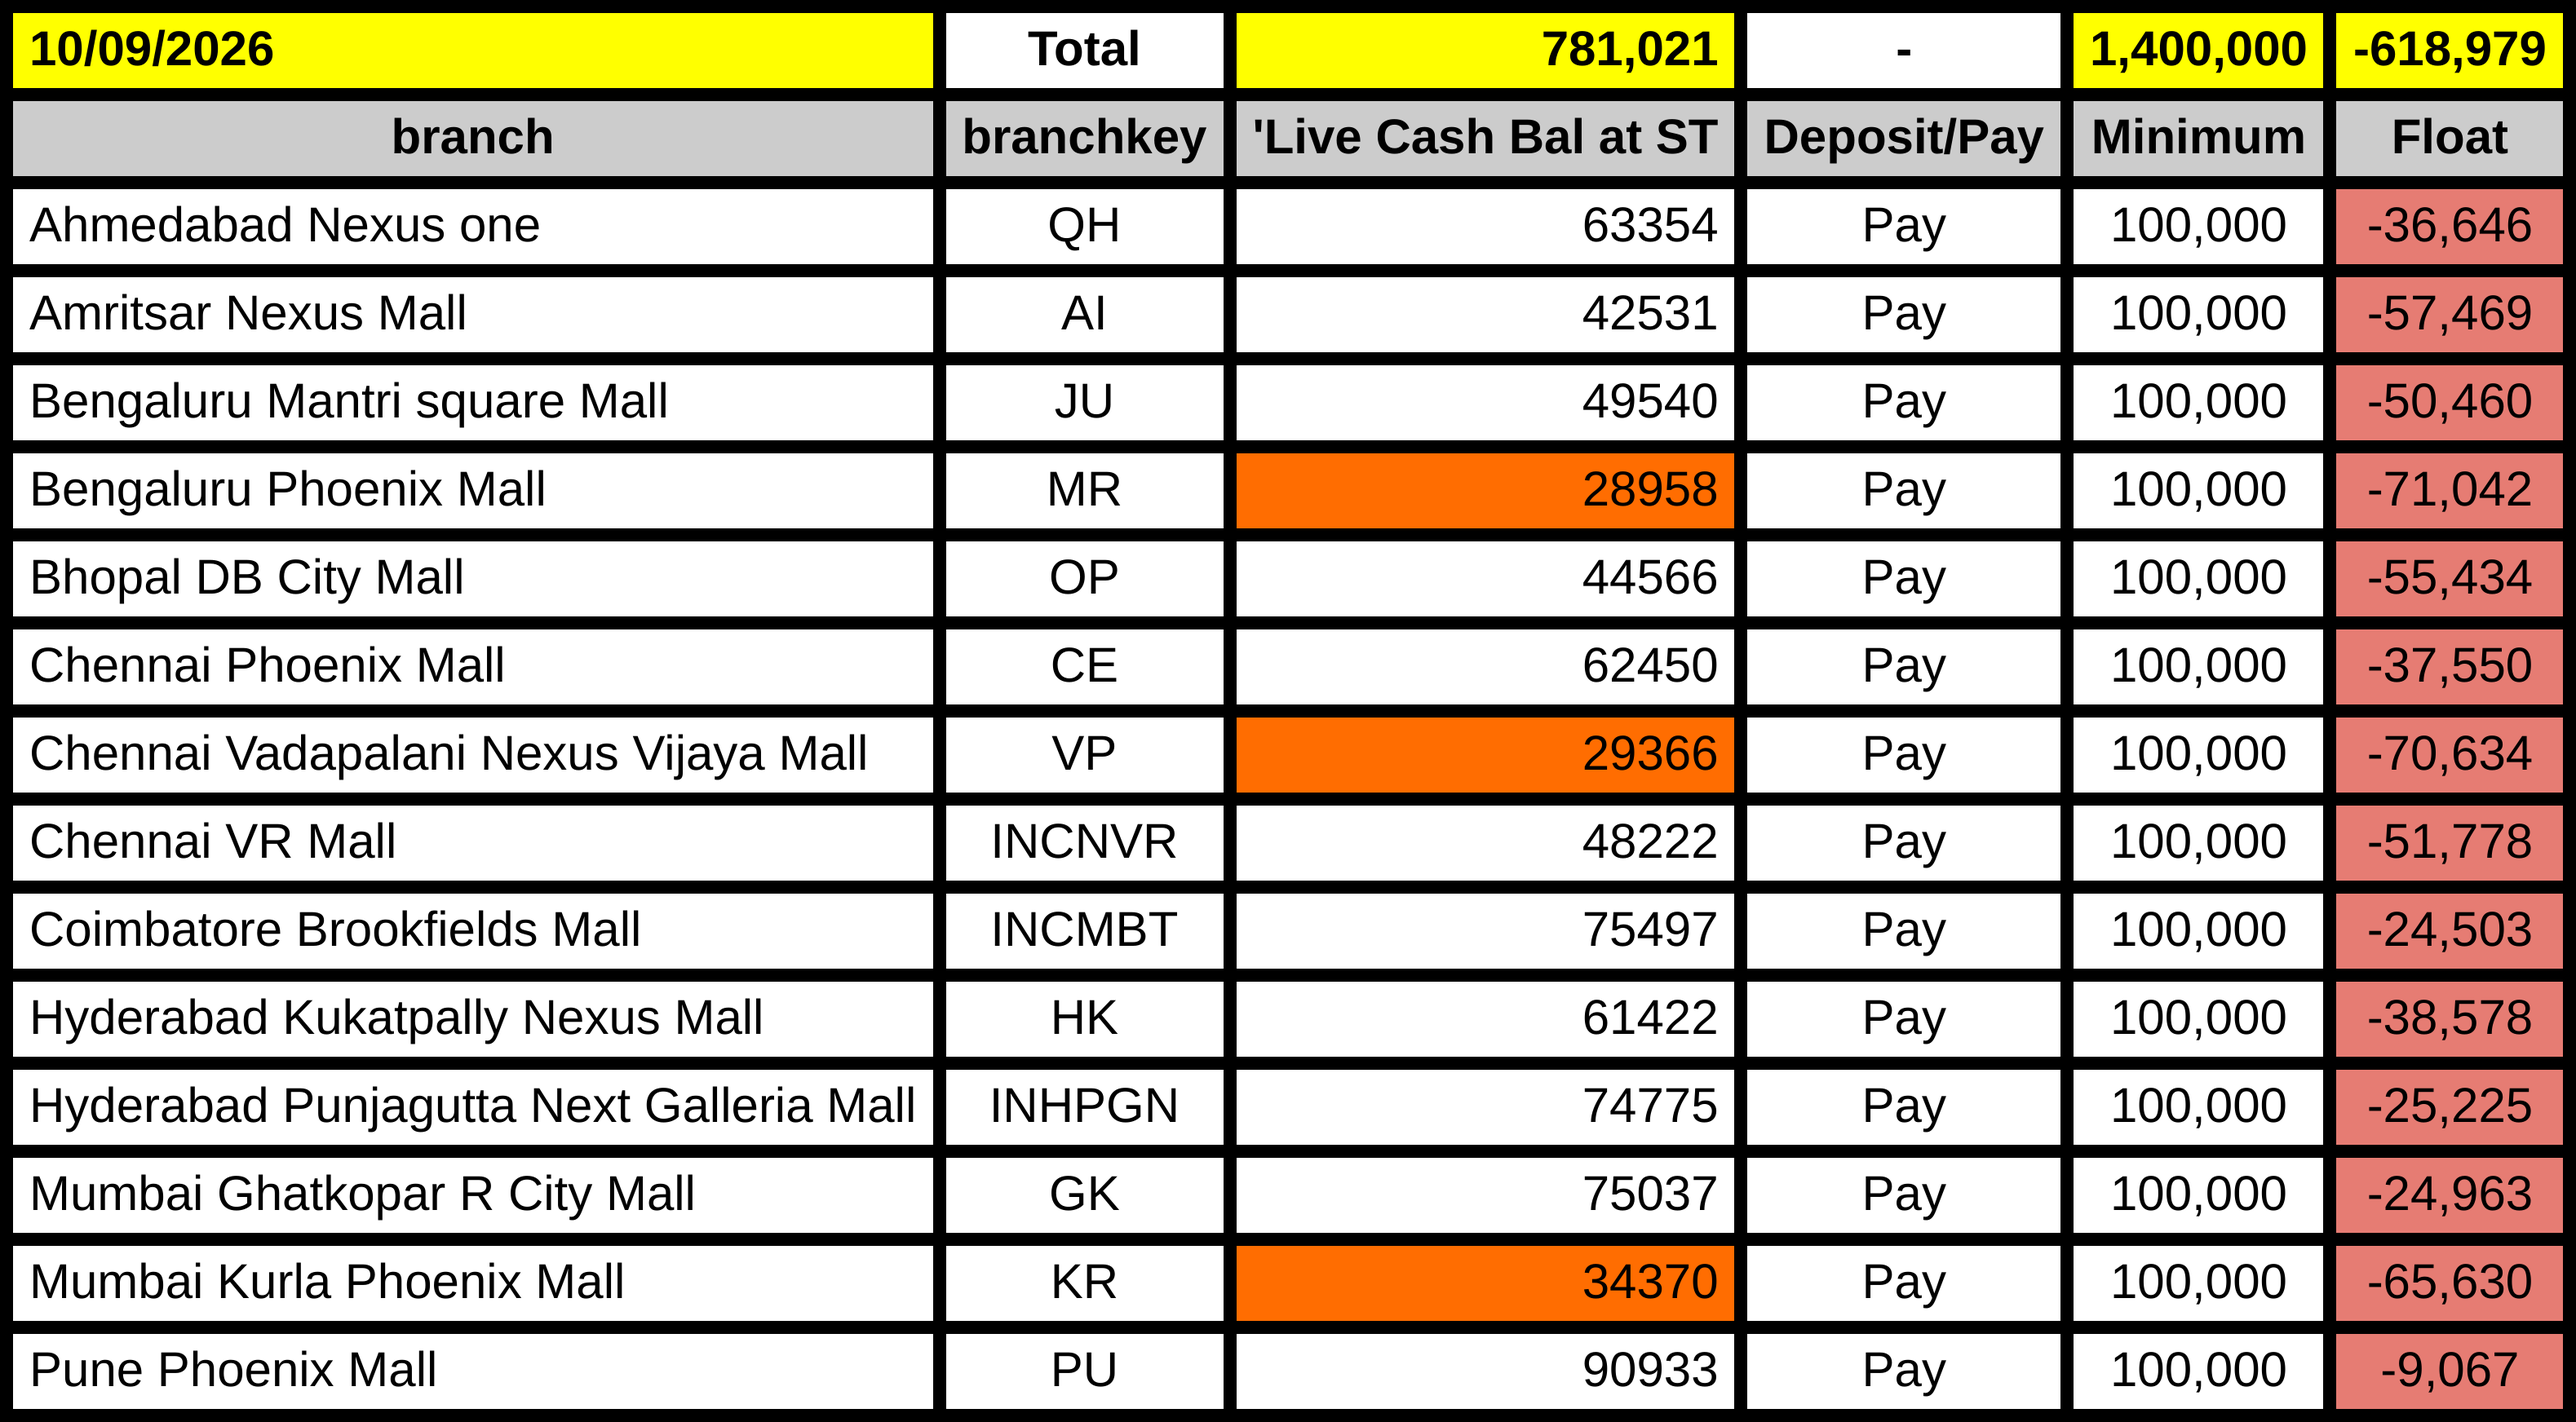
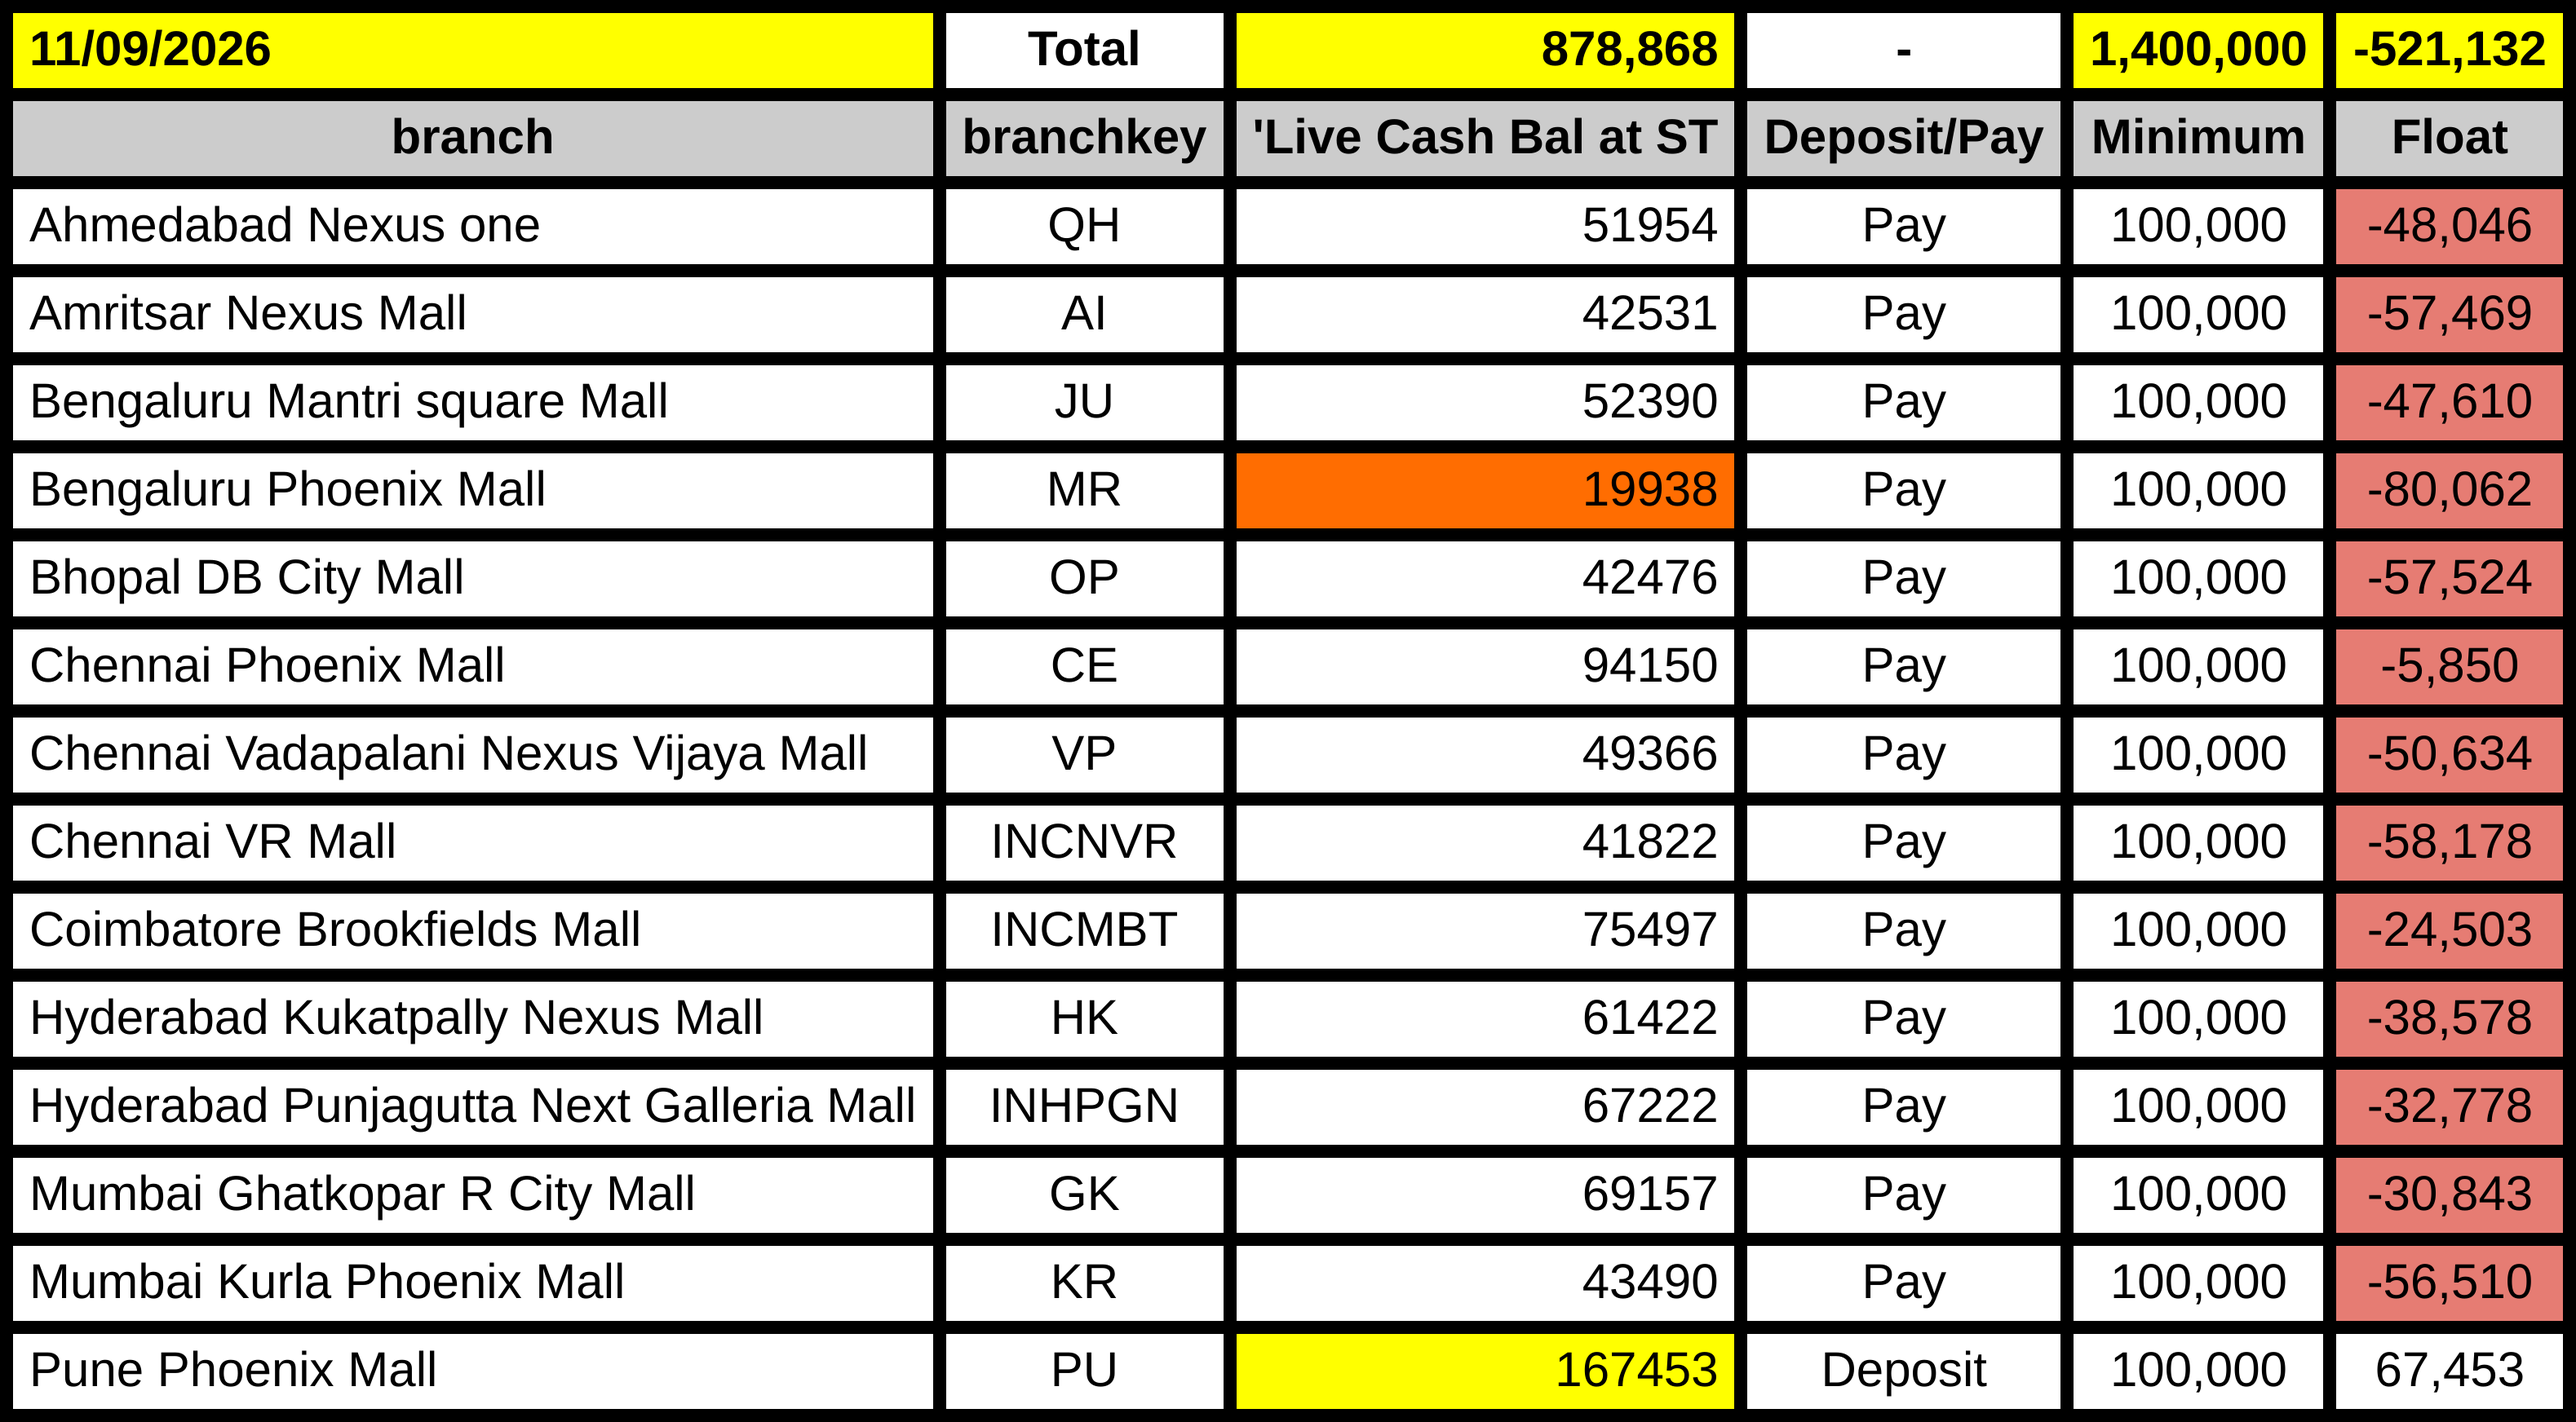
deploy: 1eb6ce62876c9d41067b4594acfaffc291ee4c8b

diff --git a/table.html b/table.html
@@ -21,7 +21,7 @@
           font-family: Arial, sans-serif;
           font-size: 30px;
           white-space: nowrap;
-        ">10/09/2026</td>
+        ">11/09/2026</td>
       
         <td style="
           background-color: #ffffff;
@@ -49,7 +49,7 @@
           font-family: Arial, sans-serif;
           font-size: 30px;
           white-space: nowrap;
-        ">781,021</td>
+        ">878,868</td>
       
         <td style="
           background-color: #ffffff;
@@ -91,7 +91,7 @@
           font-family: Arial, sans-serif;
           font-size: 30px;
           white-space: nowrap;
-        ">-618,979</td>
+        ">-521,132</td>
       </tr><tr>
         <td style="
           background-color: #cccccc;
@@ -217,7 +217,7 @@
           font-family: Arial, sans-serif;
           font-size: 30px;
           white-space: nowrap;
-        ">63354</td>
+        ">51954</td>
       
         <td style="
           background-color: #ffffff;
@@ -259,7 +259,7 @@
           font-family: Arial, sans-serif;
           font-size: 30px;
           white-space: nowrap;
-        ">-36,646</td>
+        ">-48,046</td>
       </tr><tr>
         <td style="
           background-color: #ffffff;
@@ -385,7 +385,7 @@
           font-family: Arial, sans-serif;
           font-size: 30px;
           white-space: nowrap;
-        ">49540</td>
+        ">52390</td>
       
         <td style="
           background-color: #ffffff;
@@ -427,7 +427,7 @@
           font-family: Arial, sans-serif;
           font-size: 30px;
           white-space: nowrap;
-        ">-50,460</td>
+        ">-47,610</td>
       </tr><tr>
         <td style="
           background-color: #ffffff;
@@ -469,7 +469,7 @@
           font-family: Arial, sans-serif;
           font-size: 30px;
           white-space: nowrap;
-        ">28958</td>
+        ">19938</td>
       
         <td style="
           background-color: #ffffff;
@@ -511,7 +511,7 @@
           font-family: Arial, sans-serif;
           font-size: 30px;
           white-space: nowrap;
-        ">-71,042</td>
+        ">-80,062</td>
       </tr><tr>
         <td style="
           background-color: #ffffff;
@@ -553,7 +553,7 @@
           font-family: Arial, sans-serif;
           font-size: 30px;
           white-space: nowrap;
-        ">44566</td>
+        ">42476</td>
       
         <td style="
           background-color: #ffffff;
@@ -595,7 +595,7 @@
           font-family: Arial, sans-serif;
           font-size: 30px;
           white-space: nowrap;
-        ">-55,434</td>
+        ">-57,524</td>
       </tr><tr>
         <td style="
           background-color: #ffffff;
@@ -637,7 +637,7 @@
           font-family: Arial, sans-serif;
           font-size: 30px;
           white-space: nowrap;
-        ">62450</td>
+        ">94150</td>
       
         <td style="
           background-color: #ffffff;
@@ -679,7 +679,7 @@
           font-family: Arial, sans-serif;
           font-size: 30px;
           white-space: nowrap;
-        ">-37,550</td>
+        ">-5,850</td>
       </tr><tr>
         <td style="
           background-color: #ffffff;
@@ -710,7 +710,7 @@
         ">VP</td>
       
         <td style="
-          background-color: #ff6d01;
+          background-color: #ffffff;
           color: #000000;
           font-weight: normal;
           font-style: normal;
@@ -721,7 +721,7 @@
           font-family: Arial, sans-serif;
           font-size: 30px;
           white-space: nowrap;
-        ">29366</td>
+        ">49366</td>
       
         <td style="
           background-color: #ffffff;
@@ -763,7 +763,7 @@
           font-family: Arial, sans-serif;
           font-size: 30px;
           white-space: nowrap;
-        ">-70,634</td>
+        ">-50,634</td>
       </tr><tr>
         <td style="
           background-color: #ffffff;
@@ -805,7 +805,7 @@
           font-family: Arial, sans-serif;
           font-size: 30px;
           white-space: nowrap;
-        ">48222</td>
+        ">41822</td>
       
         <td style="
           background-color: #ffffff;
@@ -847,7 +847,7 @@
           font-family: Arial, sans-serif;
           font-size: 30px;
           white-space: nowrap;
-        ">-51,778</td>
+        ">-58,178</td>
       </tr><tr>
         <td style="
           background-color: #ffffff;
@@ -1057,7 +1057,7 @@
           font-family: Arial, sans-serif;
           font-size: 30px;
           white-space: nowrap;
-        ">74775</td>
+        ">67222</td>
       
         <td style="
           background-color: #ffffff;
@@ -1099,7 +1099,7 @@
           font-family: Arial, sans-serif;
           font-size: 30px;
           white-space: nowrap;
-        ">-25,225</td>
+        ">-32,778</td>
       </tr><tr>
         <td style="
           background-color: #ffffff;
@@ -1141,7 +1141,7 @@
           font-family: Arial, sans-serif;
           font-size: 30px;
           white-space: nowrap;
-        ">75037</td>
+        ">69157</td>
       
         <td style="
           background-color: #ffffff;
@@ -1183,7 +1183,7 @@
           font-family: Arial, sans-serif;
           font-size: 30px;
           white-space: nowrap;
-        ">-24,963</td>
+        ">-30,843</td>
       </tr><tr>
         <td style="
           background-color: #ffffff;
@@ -1214,7 +1214,7 @@
         ">KR</td>
       
         <td style="
-          background-color: #ff6d01;
+          background-color: #ffffff;
           color: #000000;
           font-weight: normal;
           font-style: normal;
@@ -1225,7 +1225,7 @@
           font-family: Arial, sans-serif;
           font-size: 30px;
           white-space: nowrap;
-        ">34370</td>
+        ">43490</td>
       
         <td style="
           background-color: #ffffff;
@@ -1267,7 +1267,7 @@
           font-family: Arial, sans-serif;
           font-size: 30px;
           white-space: nowrap;
-        ">-65,630</td>
+        ">-56,510</td>
       </tr><tr>
         <td style="
           background-color: #ffffff;
@@ -1298,7 +1298,7 @@
         ">PU</td>
       
         <td style="
-          background-color: #ffffff;
+          background-color: #ffff00;
           color: #000000;
           font-weight: normal;
           font-style: normal;
@@ -1309,7 +1309,7 @@
           font-family: Arial, sans-serif;
           font-size: 30px;
           white-space: nowrap;
-        ">90933</td>
+        ">167453</td>
       
         <td style="
           background-color: #ffffff;
@@ -1323,7 +1323,7 @@
           font-family: Arial, sans-serif;
           font-size: 30px;
           white-space: nowrap;
-        ">Pay</td>
+        ">Deposit</td>
       
         <td style="
           background-color: #ffffff;
@@ -1340,7 +1340,7 @@
         ">100,000</td>
       
         <td style="
-          background-color: #e67c73;
+          background-color: #ffffff;
           color: #000000;
           font-weight: normal;
           font-style: normal;
@@ -1351,7 +1351,7 @@
           font-family: Arial, sans-serif;
           font-size: 30px;
           white-space: nowrap;
-        ">-9,067</td>
+        ">67,453</td>
       </tr>
   </table>
 </body>
